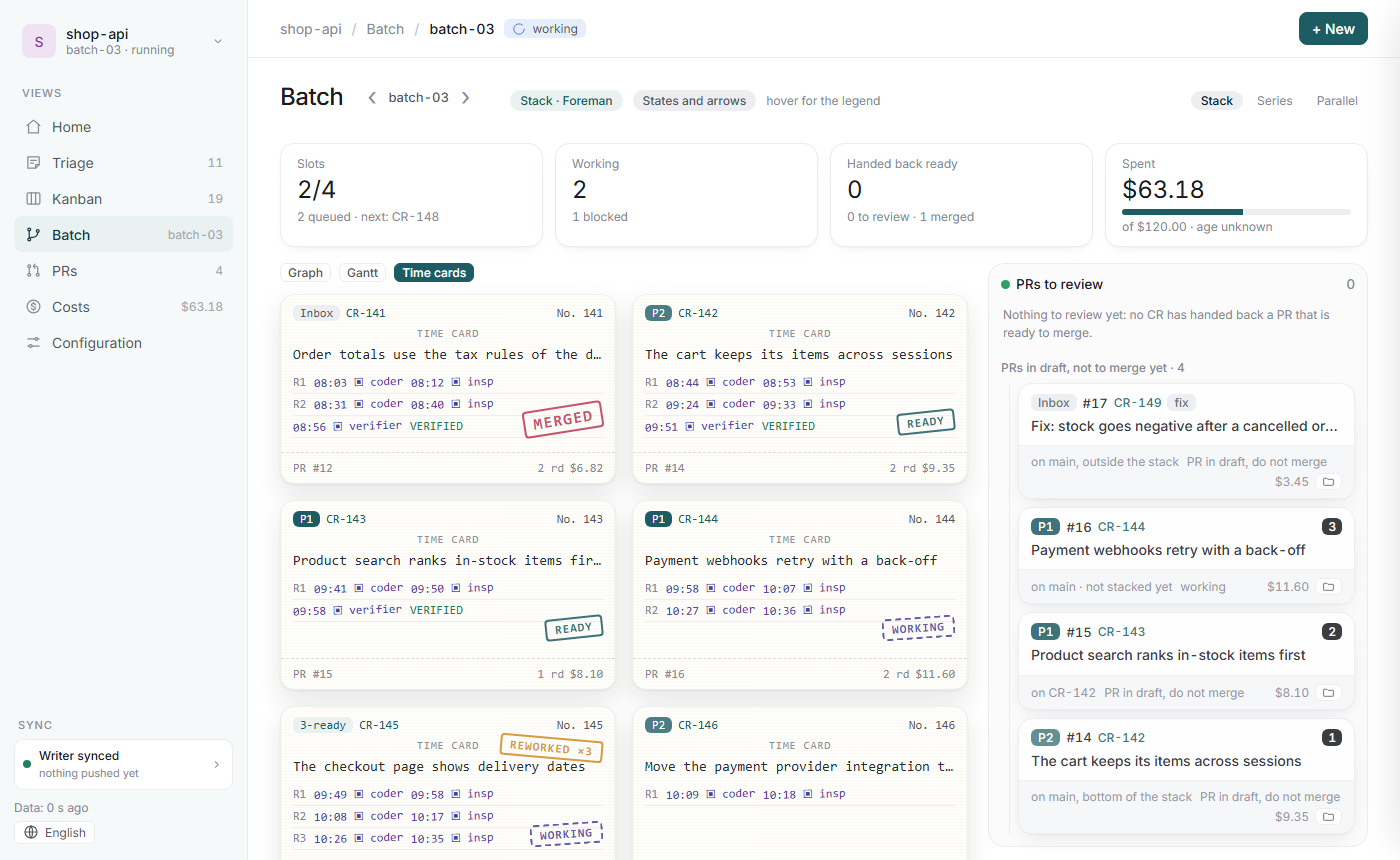
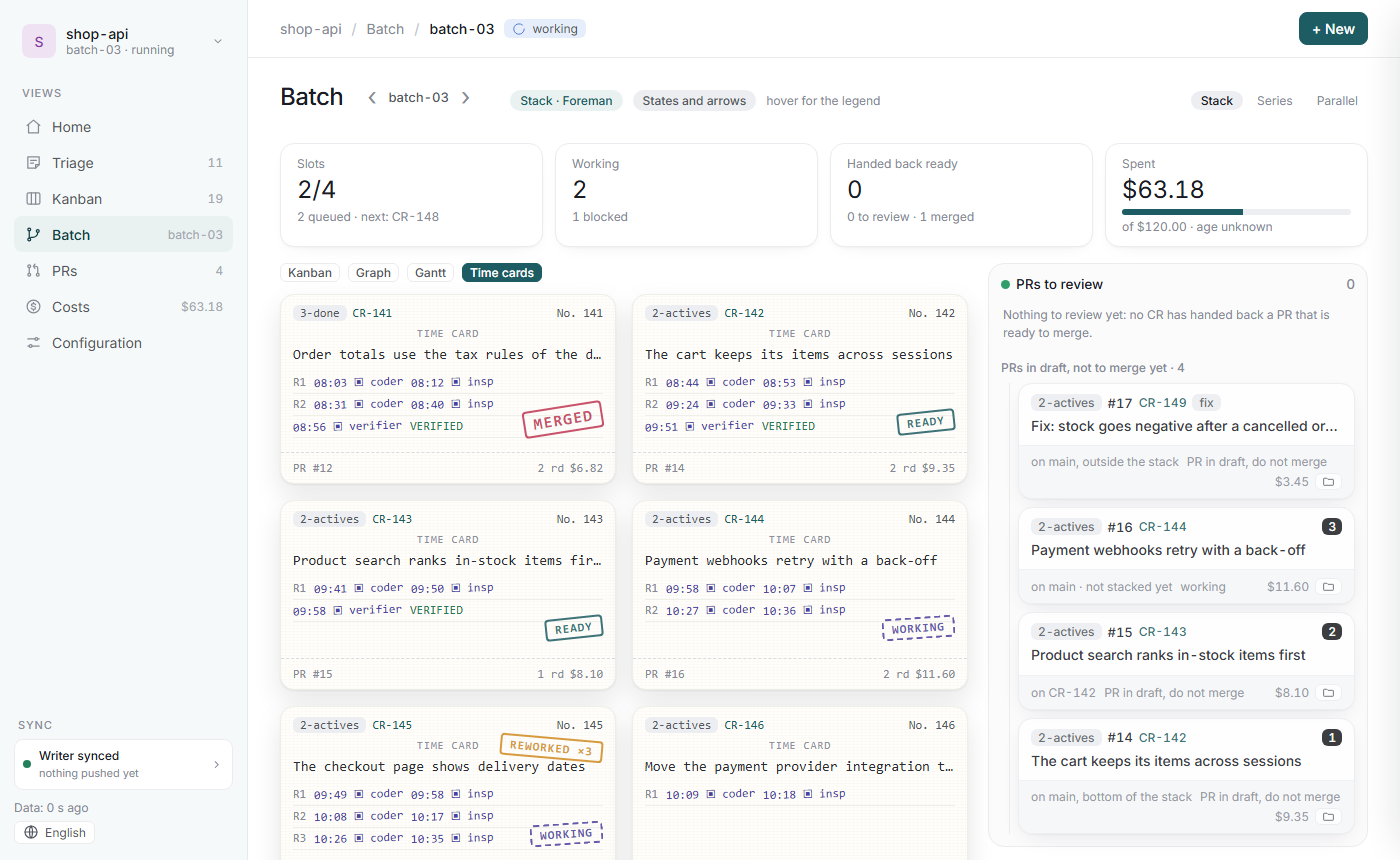
docs(board): retake the web board pictures after the Kanban tab landed

diff --git a/scripts/docs_screenshots.py b/scripts/docs_screenshots.py
@@ -265,8 +265,8 @@ def views(page: Page, url: str, size: str) -> None:
 
 
 def panel(page: Page, url: str, size: str) -> None:
-    goto(page, url, "batch", "shop-api")
-    page.locator('[data-key="node-open-c:CR-145"], [data-key^="open-c:CR-145"]').first.click()
+    goto(page, url, "batch&t=kanban", "shop-api")  # the page keeps the last tab it showed
+    page.locator('[data-key^="open-c:CR-145"]').first.click()
     page.wait_for_selector('[data-key^="file-"]')
     settle(page)
     shot(page, "panel", size)
